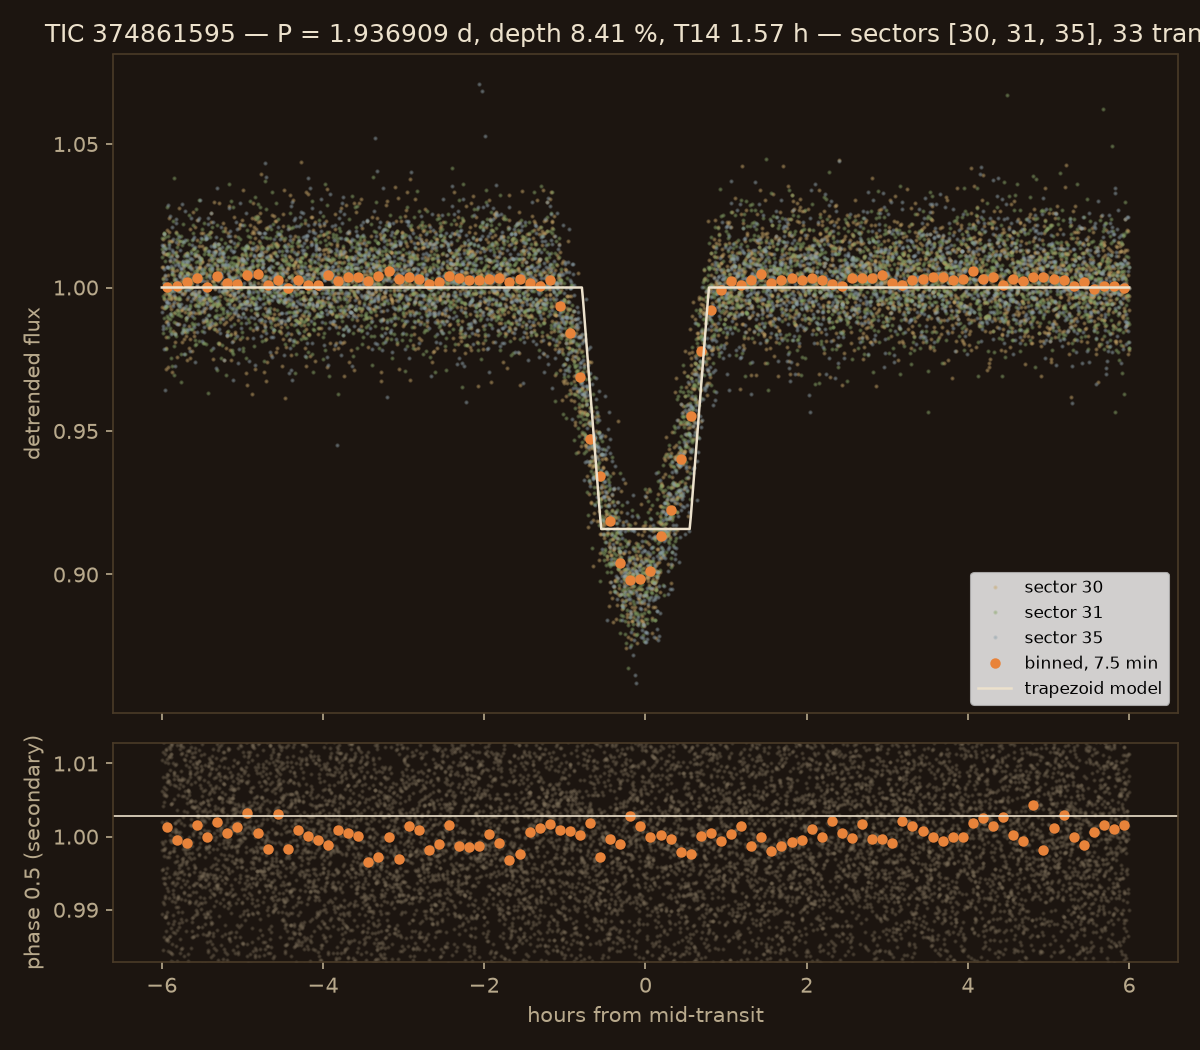
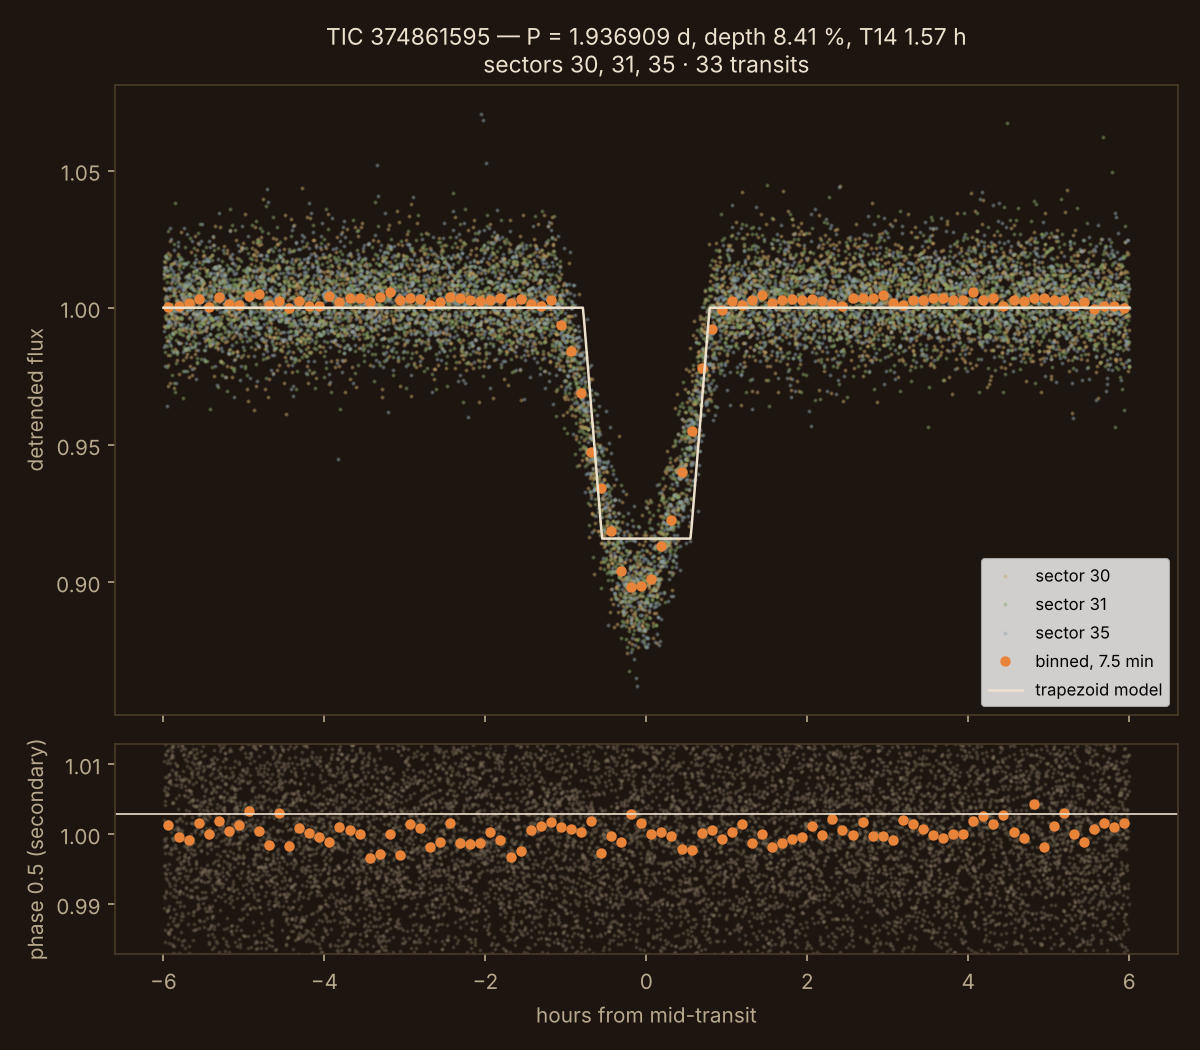
TIC 374861595 fold figure: wrap the title so it isn't clipped
The one-line title ran past the 8-inch canvas and cut off mid-word
('33 tran'). Same data, same fit, same 1200x1050 canvas; the title now
sits on two lines. Re-rendered from the cached sector 30/31/35 light
curves; the stacked odd/even and secondary numbers reproduce exactly.

Claude-Session: https://claude.ai/code/session_01QqnhfwsWYq1NwwMNMBEC3B

Changed region(s): [[0.0, 0.0, 1.0, 0.9752]]

diff --git a/scripts/ctoi_dossier_checks.py b/scripts/ctoi_dossier_checks.py
@@ -107,7 +107,9 @@ def main() -> int:
     ax[0].plot(bx, by, "o", ms=4, color="#e8833a", label="binned, 7.5 min")
     xx = np.linspace(-6, 6, 800); ax[0].plot(xx, trapezoid(t0 + xx / 24, t0, P, depth, t14), "-", color="#ece1cc", lw=1.2, label="trapezoid model")
     ax[0].set_ylabel("detrended flux"); ax[0].legend(loc="lower right", fontsize=8)
-    ax[0].set_title(f"TIC {args.tic} — P = {P:.6f} d, depth {depth*100:.2f} %, T14 {t14*24:.2f} h — sectors {eph['sectors']}, {eph['n_transits_total']} transits")
+    # two lines: on one, the title ran past the 8-inch canvas and was clipped
+    ax[0].set_title(f"TIC {args.tic} — P = {P:.6f} d, depth {depth*100:.2f} %, T14 {t14*24:.2f} h\n"
+                    f"sectors {', '.join(map(str, eph['sectors']))} · {eph['n_transits_total']} transits", fontsize=11)
     ph2 = (np.mod(t - t0, P) - 0.5 * P) * 24; m2 = np.abs(ph2) < 6
     idx2 = np.digitize(ph2[m2], bins); by2 = np.array([np.median(f[m2][idx2 == i]) if (idx2 == i).sum() > 3 else np.nan for i in range(1, len(bins))])
     ax[1].plot(ph2[m2], f[m2], ".", ms=2, alpha=.25, color="#847660"); ax[1].plot(bx, by2, "o", ms=4, color="#e8833a")
